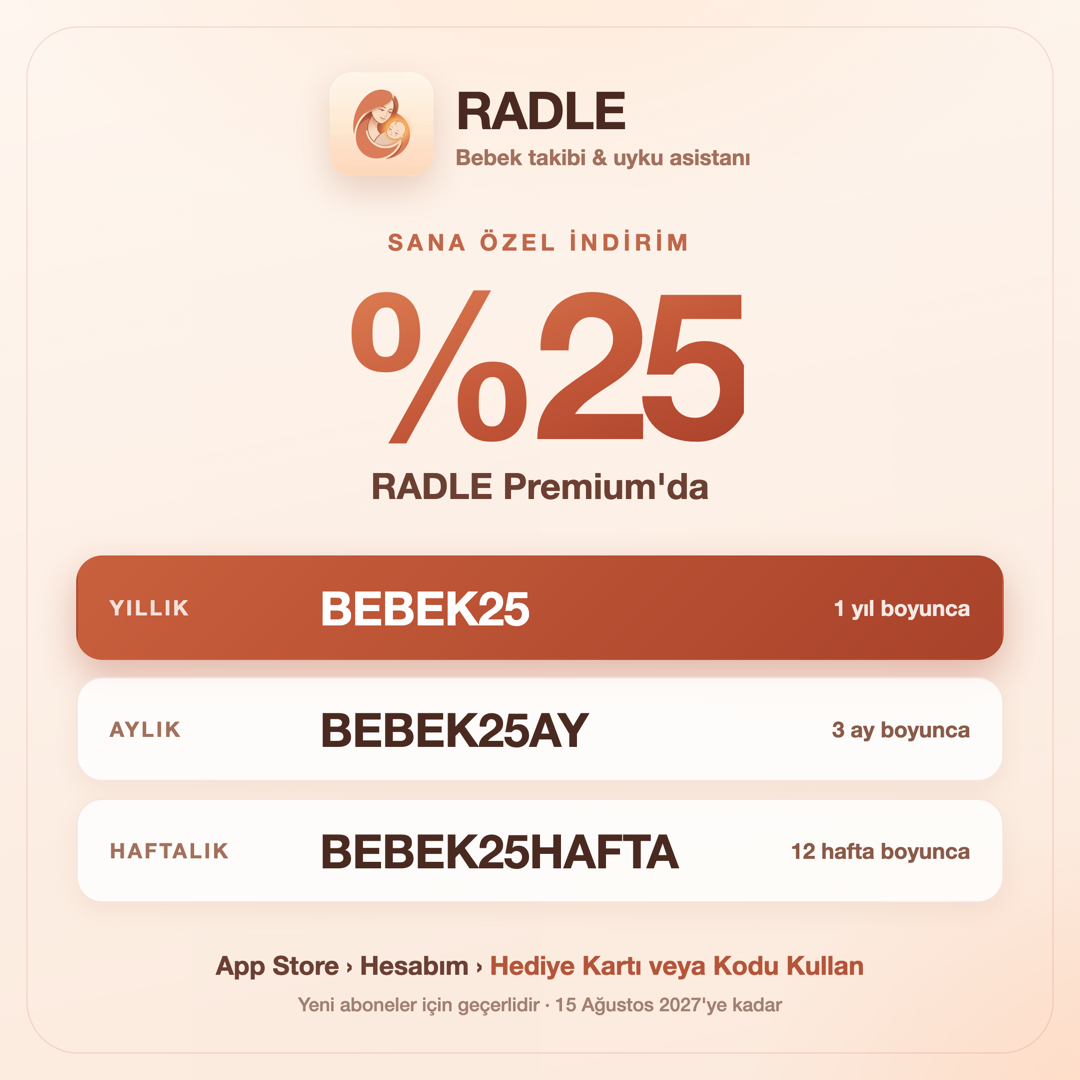
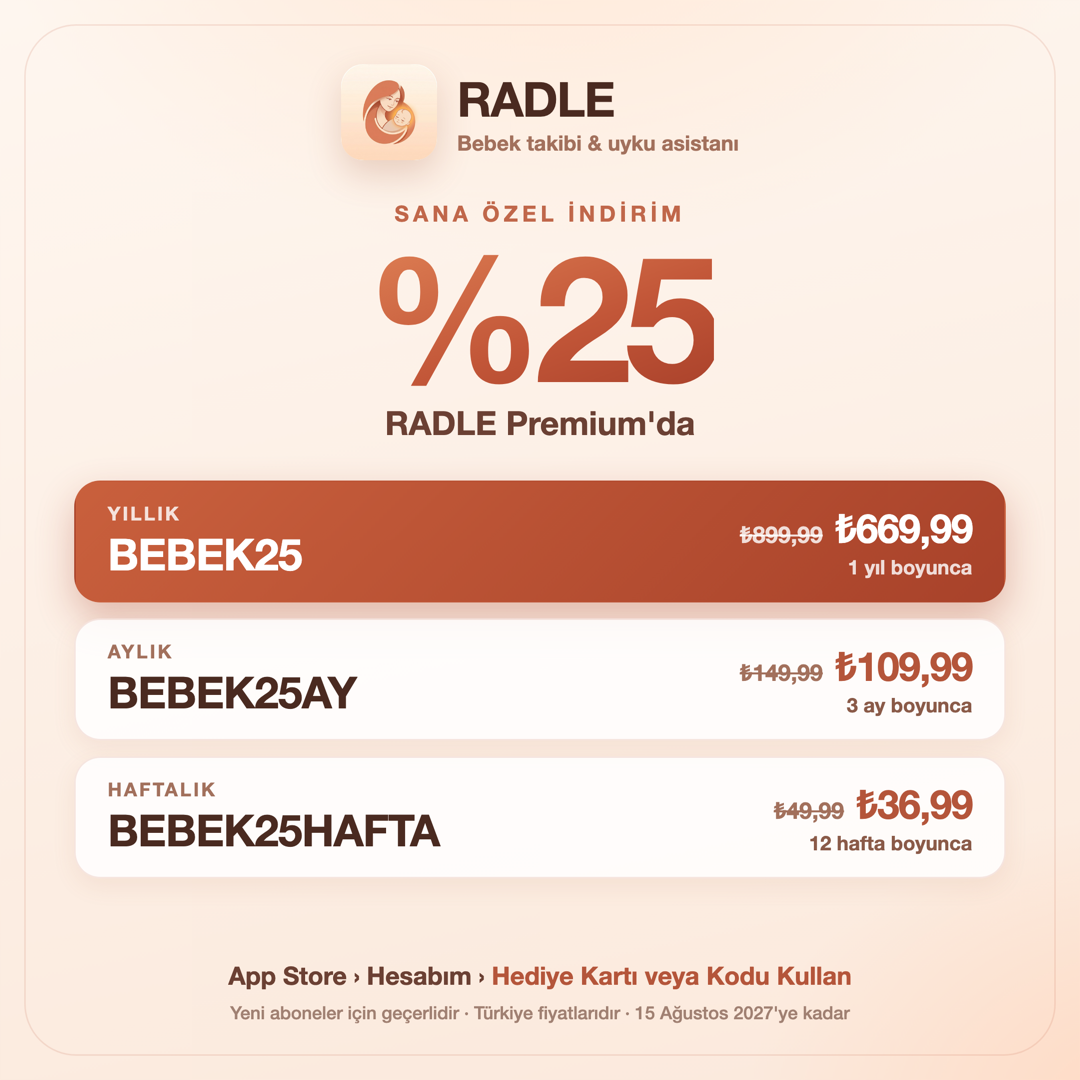
Paketlere eski fiyat (uzeri cizili) ve indirimli fiyat eklendi

Changed region(s): [[0.0611, 0.1833, 0.9472, 0.8556], [0.1833, 0.8861, 0.7944, 0.9472], [0.3056, 0.0611, 0.7028, 0.1833]]

diff --git a/bebek25/index.html b/bebek25/index.html
@@ -53,8 +53,7 @@
   body {
     margin:0; background:var(--ground); color:var(--ink);
     font-family:system-ui,-apple-system,"SF Pro Text","Segoe UI",sans-serif;
-    font-size:16px; line-height:1.5;
-    -webkit-font-smoothing:antialiased;
+    font-size:16px; line-height:1.5; -webkit-font-smoothing:antialiased;
     padding:28px 20px 44px;
   }
   .wrap { max-width:440px; margin:0 auto; display:flex; flex-direction:column; gap:26px; }
@@ -78,22 +77,29 @@
     background:var(--surface); border:1px solid var(--line);
     border-radius:var(--r); overflow:hidden; box-shadow:var(--shadow);
   }
-  .offer-go {
-    display:grid; gap:3px; padding:18px 20px 16px;
-    text-decoration:none; color:inherit;
+  .offer-go { display:grid; gap:3px; padding:18px 20px 16px;
+    text-decoration:none; color:inherit; }
+  .offer-plan { font-size:12px; font-weight:800; letter-spacing:1.6px; color:var(--muted); }
+
+  .offer-price {
+    display:flex; align-items:baseline; gap:9px; margin-top:5px;
+    font-variant-numeric:tabular-nums;
   }
-  .offer-plan { font-size:12px; font-weight:800; letter-spacing:1.6px;
-    text-transform:uppercase; color:var(--muted); }
+  .offer-price s { font-size:17px; font-weight:600; color:var(--muted);
+    text-decoration-thickness:1.5px; }
+  .offer-price strong { font-size:31px; font-weight:850; letter-spacing:-.8px;
+    line-height:1; color:var(--accent); }
+  .offer-price em { font-size:14px; font-style:normal; font-weight:600; color:var(--muted); }
+
+  .offer-term { font-size:13.5px; color:var(--muted); margin-top:3px; }
   .offer-code {
     font-family:ui-monospace,SFMono-Regular,Menlo,monospace;
-    font-size:27px; font-weight:700; letter-spacing:-.4px; margin-top:2px;
+    font-size:23px; font-weight:700; letter-spacing:-.3px; margin-top:11px;
   }
-  .offer-term { font-size:13.5px; color:var(--muted); }
-  .offer-cta { margin-top:9px; font-size:14.5px; font-weight:700; color:var(--accent); }
+  .offer-cta { margin-top:7px; font-size:14.5px; font-weight:700; color:var(--accent); }
   .offer-copy {
-    width:100%; border:0; border-top:1px solid var(--line);
-    background:transparent; color:var(--muted);
-    font:inherit; font-size:13.5px; font-weight:600;
+    width:100%; border:0; border-top:1px solid var(--line); background:transparent;
+    color:var(--muted); font:inherit; font-size:13.5px; font-weight:600;
     padding:12px; cursor:pointer; text-align:center;
   }
   .offer-copy:hover { background:var(--surface-2); color:var(--ink); }
@@ -102,7 +108,9 @@
   .is-lead { background:var(--accent); border-color:transparent; }
   .is-lead .offer-plan { color:color-mix(in srgb, var(--accent-ink) 74%, transparent); }
   .is-lead .offer-code, .is-lead .offer-cta { color:var(--accent-ink); }
-  .is-lead .offer-term { color:color-mix(in srgb, var(--accent-ink) 82%, transparent); }
+  .is-lead .offer-price strong { color:var(--accent-ink); }
+  .is-lead .offer-price s, .is-lead .offer-price em,
+  .is-lead .offer-term { color:color-mix(in srgb, var(--accent-ink) 78%, transparent); }
   .is-lead .offer-copy {
     color:color-mix(in srgb, var(--accent-ink) 80%, transparent);
     border-top-color:color-mix(in srgb, var(--accent-ink) 26%, transparent);
@@ -112,20 +120,17 @@
     color:var(--accent-ink);
   }
 
-  a:focus-visible, button:focus-visible {
-    outline:2.5px solid var(--accent); outline-offset:2px;
-  }
+  a:focus-visible, button:focus-visible { outline:2.5px solid var(--accent); outline-offset:2px; }
 
   .steps { display:flex; flex-direction:column; gap:11px; }
   .steps h2 { margin:0 0 3px; font-size:12px; font-weight:800; letter-spacing:1.6px;
-    text-transform:uppercase; color:var(--muted); }
+    color:var(--muted); }
   .step { display:flex; gap:12px; align-items:flex-start; font-size:14.5px; }
   .step i {
     flex:none; width:22px; height:22px; border-radius:50%;
     background:var(--accent-soft); color:var(--accent);
     font-style:normal; font-size:12px; font-weight:800;
-    display:grid; place-items:center; margin-top:1px;
-    font-variant-numeric:tabular-nums;
+    display:grid; place-items:center; margin-top:1px; font-variant-numeric:tabular-nums;
   }
   .fine { font-size:12.5px; color:var(--muted); line-height:1.6; }
 </style>
@@ -144,9 +149,14 @@
   <ul>
       <li class="offer is-lead">
         <a class="offer-go" href="https://apps.apple.com/redeem?ctx=offercodes&amp;id=6758636742&amp;code=BEBEK25">
-          <span class="offer-plan">Yıllık</span>
-          <span class="offer-code">BEBEK25</span>
+          <span class="offer-plan">YILLIK</span>
+          <span class="offer-price">
+            <s>₺899,99</s>
+            <strong>₺669,99</strong>
+            <em>/yıl</em>
+          </span>
           <span class="offer-term">1 yıl boyunca indirimli</span>
+          <span class="offer-code">BEBEK25</span>
           <span class="offer-cta">App Store'da kullan <span aria-hidden="true">&rarr;</span></span>
         </a>
         <button class="offer-copy" type="button" data-code="BEBEK25">Kodu kopyala</button>
@@ -154,9 +164,14 @@
 
       <li class="offer">
         <a class="offer-go" href="https://apps.apple.com/redeem?ctx=offercodes&amp;id=6758636742&amp;code=BEBEK25AY">
-          <span class="offer-plan">Aylık</span>
-          <span class="offer-code">BEBEK25AY</span>
+          <span class="offer-plan">AYLIK</span>
+          <span class="offer-price">
+            <s>₺149,99</s>
+            <strong>₺109,99</strong>
+            <em>/ay</em>
+          </span>
           <span class="offer-term">3 ay boyunca indirimli</span>
+          <span class="offer-code">BEBEK25AY</span>
           <span class="offer-cta">App Store'da kullan <span aria-hidden="true">&rarr;</span></span>
         </a>
         <button class="offer-copy" type="button" data-code="BEBEK25AY">Kodu kopyala</button>
@@ -164,9 +179,14 @@
 
       <li class="offer">
         <a class="offer-go" href="https://apps.apple.com/redeem?ctx=offercodes&amp;id=6758636742&amp;code=BEBEK25HAFTA">
-          <span class="offer-plan">Haftalık</span>
-          <span class="offer-code">BEBEK25HAFTA</span>
+          <span class="offer-plan">HAFTALIK</span>
+          <span class="offer-price">
+            <s>₺49,99</s>
+            <strong>₺36,99</strong>
+            <em>/hafta</em>
+          </span>
           <span class="offer-term">12 hafta boyunca indirimli</span>
+          <span class="offer-code">BEBEK25HAFTA</span>
           <span class="offer-cta">App Store'da kullan <span aria-hidden="true">&rarr;</span></span>
         </a>
         <button class="offer-copy" type="button" data-code="BEBEK25HAFTA">Kodu kopyala</button>
@@ -174,16 +194,16 @@
   </ul>
 
   <section class="steps">
-    <h2>Nasıl kullanılır</h2>
+    <h2>NASIL KULLANILIR</h2>
     <div class="step"><i>1</i><span>İstediğin planın kartına dokun.</span></div>
     <div class="step"><i>2</i><span>App Store açılır ve kod otomatik uygulanır.</span></div>
     <div class="step"><i>3</i><span>Onayla — indirimli fiyat aboneliğine yansır.</span></div>
   </section>
 
   <p class="fine">
-    Her plan için ayrı kod geçerlidir. İndirim yalnızca yeni abonelerde ve yukarıda
-    belirtilen süre boyunca uygulanır; süre bitiminde abonelik normal fiyattan yenilenir.
-    Kodlar 15 Ağustos 2027'ye kadar geçerlidir.
+    Fiyatlar Türkiye App Store'u içindir. Her plan için ayrı kod geçerlidir; indirim
+    yalnızca yeni abonelerde ve belirtilen süre boyunca uygulanır, süre bitiminde
+    abonelik normal fiyattan yenilenir. Kodlar 15 Ağustos 2027'ye kadar geçerlidir.
   </p>
 </div>
 
